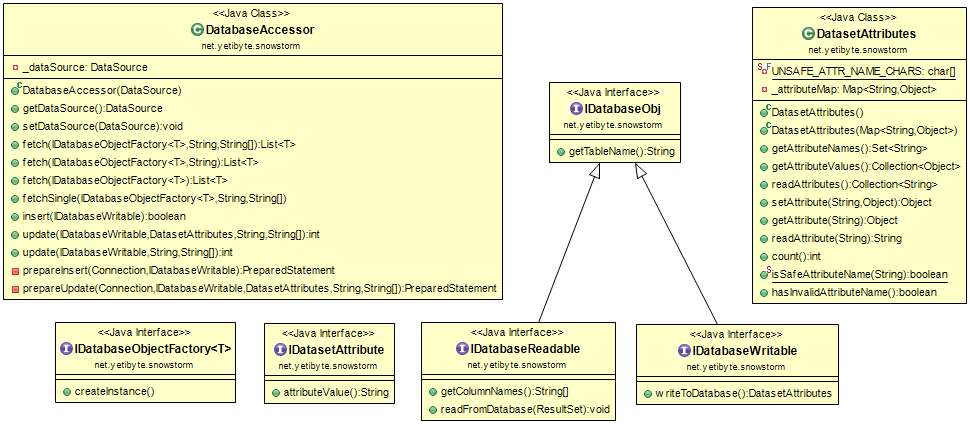
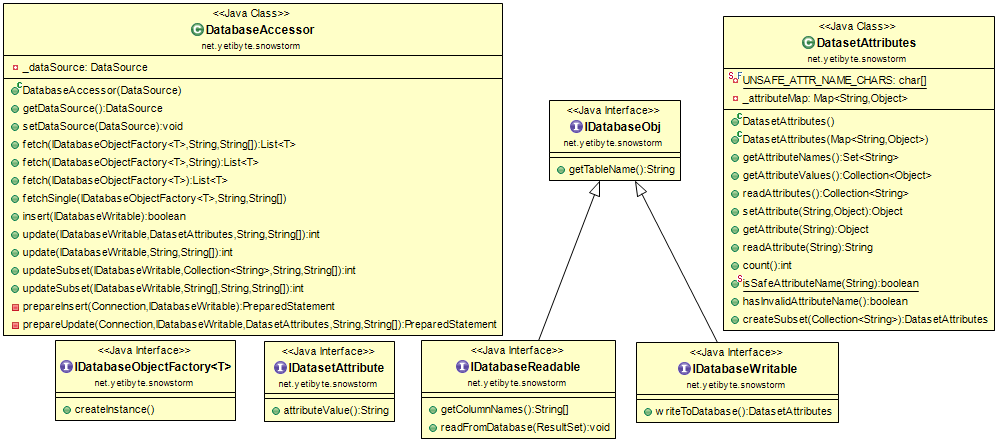
Added more methods for updating only specific attributes of a record.

diff --git a/snowstORM/src/net/yetibyte/snowstorm/DatabaseAccessor.java b/snowstORM/src/net/yetibyte/snowstorm/DatabaseAccessor.java
@@ -285,6 +285,38 @@ public class DatabaseAccessor {
 		
 	}
 	
+	public int updateSubset(IDatabaseWritable dbObj, Collection<String> attributeNames, String whereClause, String[] whereParams) {
+		
+		if(dbObj != null) {
+			
+			DatasetAttributes dsAttributesOriginal = dbObj.writeToDatabase();
+			
+			if(dsAttributesOriginal != null)
+				return update(dbObj, dsAttributesOriginal.createSubset(attributeNames), whereClause, whereParams);
+			
+		}
+		
+		return -1;
+		
+	}
+	
+	public int updateSubset(IDatabaseWritable dbObj, String[] attributeNames, String whereClause, String[] whereParams) {
+		
+		if(dbObj != null) {
+			
+			DatasetAttributes dsAttributesOriginal = dbObj.writeToDatabase();
+			
+			Collection<String> attributeNamesColl = attributeNames != null ? Arrays.asList(attributeNames) : new ArrayList<String>();
+			
+			if(dsAttributesOriginal != null)
+				return update(dbObj, dsAttributesOriginal.createSubset(attributeNamesColl), whereClause, whereParams);
+			
+		}
+		
+		return -1;
+		
+	}
+	
 	private PreparedStatement prepareInsert(Connection connection, IDatabaseWritable dbObj) throws SQLException {
 
 		if(connection == null || dbObj == null)

diff --git a/snowstORM/src/net/yetibyte/snowstorm/DatasetAttributes.java b/snowstORM/src/net/yetibyte/snowstorm/DatasetAttributes.java
@@ -3,6 +3,7 @@ package net.yetibyte.snowstorm;
 import java.util.ArrayList;
 import java.util.Collection;
 import java.util.HashMap;
+import java.util.HashSet;
 import java.util.Map;
 import java.util.Set;
 
@@ -87,7 +88,7 @@ public class DatasetAttributes {
 			
 		}
 		
-		return _attributeMap.get(name).toString();
+		return attr.toString();
 		
 	}
 	
@@ -123,6 +124,27 @@ public class DatasetAttributes {
 		}
 		
 		return false;
+		
+	}
+	
+	public DatasetAttributes createSubset(Collection<String> attributeNames) {
+		
+		DatasetAttributes subset = new DatasetAttributes();
+		
+		if(attributeNames != null) {
+			
+			Set<String> namesIntersect = new HashSet<String>(attributeNames);
+			namesIntersect.retainAll(getAttributeNames());
+			
+			for(String attrName : namesIntersect) {
+				
+				subset.setAttribute(attrName, getAttribute(attrName));
+				
+			}
+			
+		}
+		
+		return subset;
 		
 	}
 	
